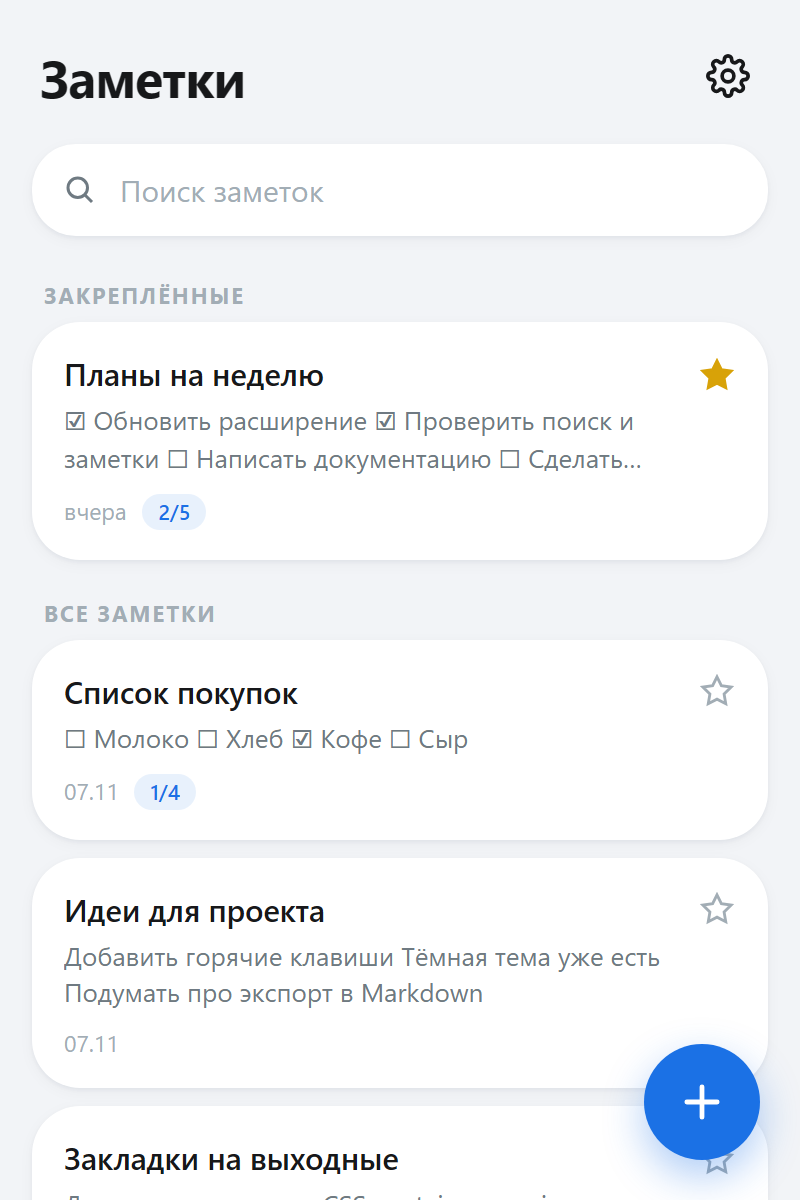
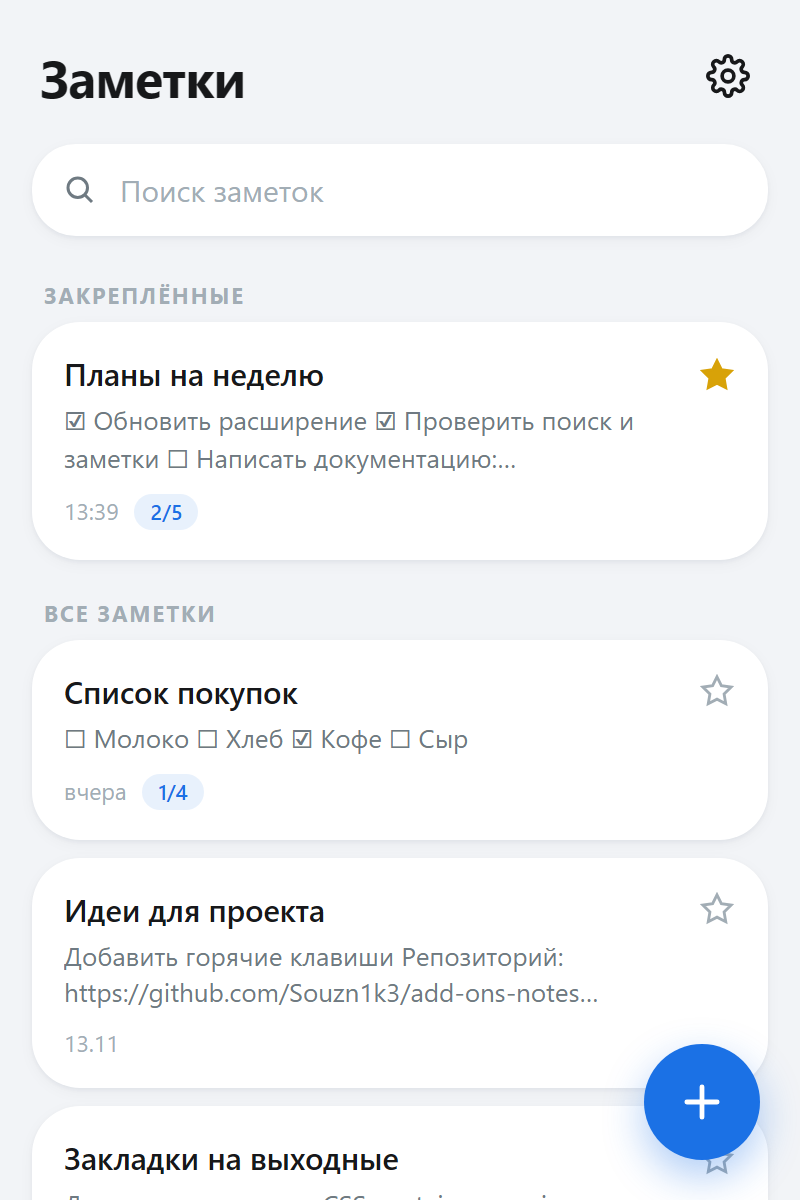
docs: refresh screenshots for 2.1.0 (links, link dialog)

diff --git a/README.md b/README.md
@@ -23,16 +23,18 @@
 |---|---|
 | ![Главный экран, светлая тема](docs/screenshots/home-light.png) | ![Главный экран, тёмная тема](docs/screenshots/home-dark.png) |
 
-| Заметка с чек-листом | Редактор |
+| Заметка с чек-листом и ссылкой | Редактор |
 |---|---|
-| ![Просмотр заметки с чек-листом](docs/screenshots/reader.png) | ![Редактор заметки](docs/screenshots/editor.png) |
+| ![Просмотр заметки с чек-листом и ссылкой](docs/screenshots/reader.png) | ![Редактор заметки](docs/screenshots/editor.png) |
 
-![Настройки](docs/screenshots/settings.png)
+| Вставка ссылки | Настройки |
+|---|---|
+| ![Диалог вставки ссылки](docs/screenshots/link-dialog.png) | ![Настройки](docs/screenshots/settings.png) |
 
 ## Установка
 
 📦 **Скачать:** [Releases](https://github.com/Souzn1k3/add-ons-notes/releases)
-— архив `add-ons-notes-v2.0.1.zip`, распаковать и загрузить папку
+— архив `add-ons-notes-v2.1.0.zip`, распаковать и загрузить папку
 (где `manifest.json`) как распакованное расширение.
 
 Подробная инструкция для Samsung Internet / Chrome / Edge:
@@ -79,7 +81,7 @@ docs/
 
 - JS без сборки: модули ES, проверка синтаксиса `node --check`.
 - Тесты чистой логики: `npm test` (Node 18+; чек-листы, импорт, очередь записи).
-- История и теги — в git; актуальный релиз отмечен тегом `v2.0.1`.
+- История и теги — в git; актуальный релиз отмечен тегом `v2.1.0`.
 
 ## Trademark
 

diff --git a/INSTALL.md b/INSTALL.md
@@ -8,7 +8,7 @@
 
 1. Открой страницу релизов:
    https://github.com/Souzn1k3/add-ons-notes/releases
-2. У последнего релиза скачай файл `add-ons-notes-v2.0.1.zip`.
+2. У последнего релиза скачай файл `add-ons-notes-v2.1.0.zip`.
 3. Распакуй в любое постоянное место, например:
    `C:\Tools\add-ons-notes` — папку потом не удаляй, браузер грузит
    расширение прямо из неё.
